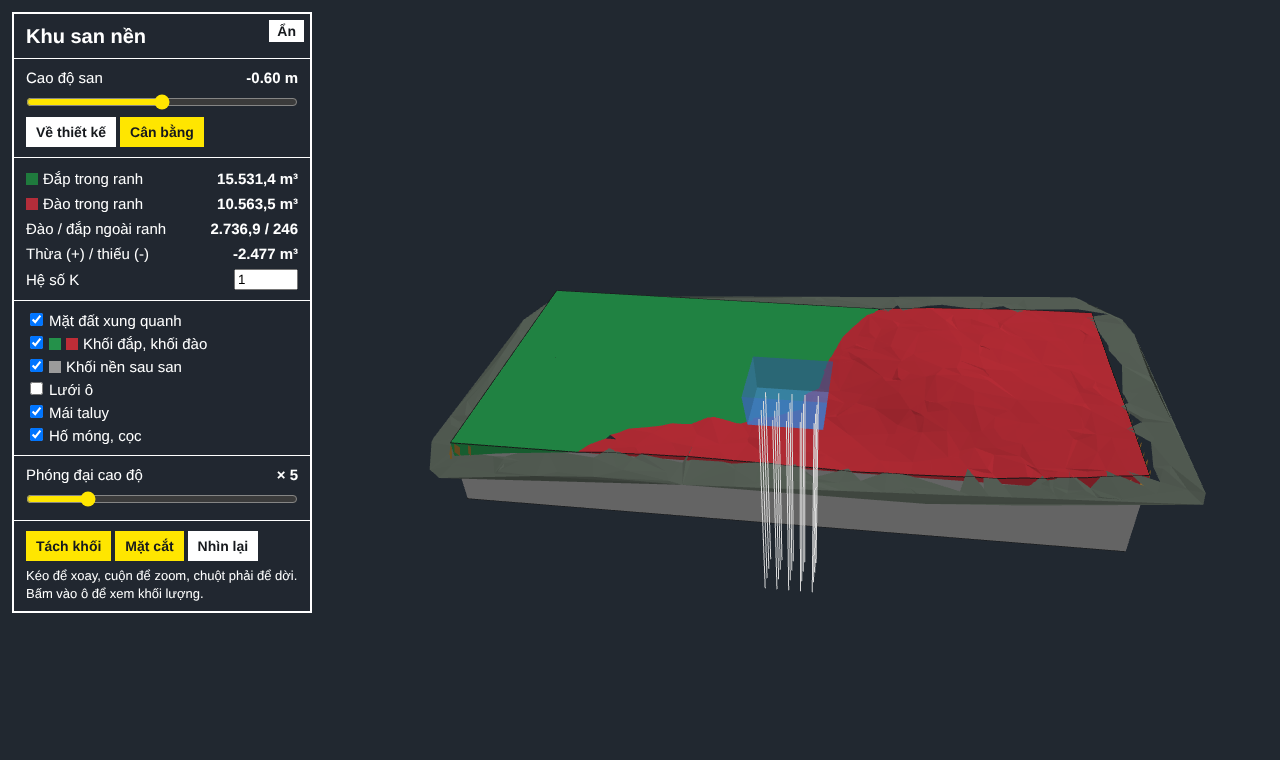
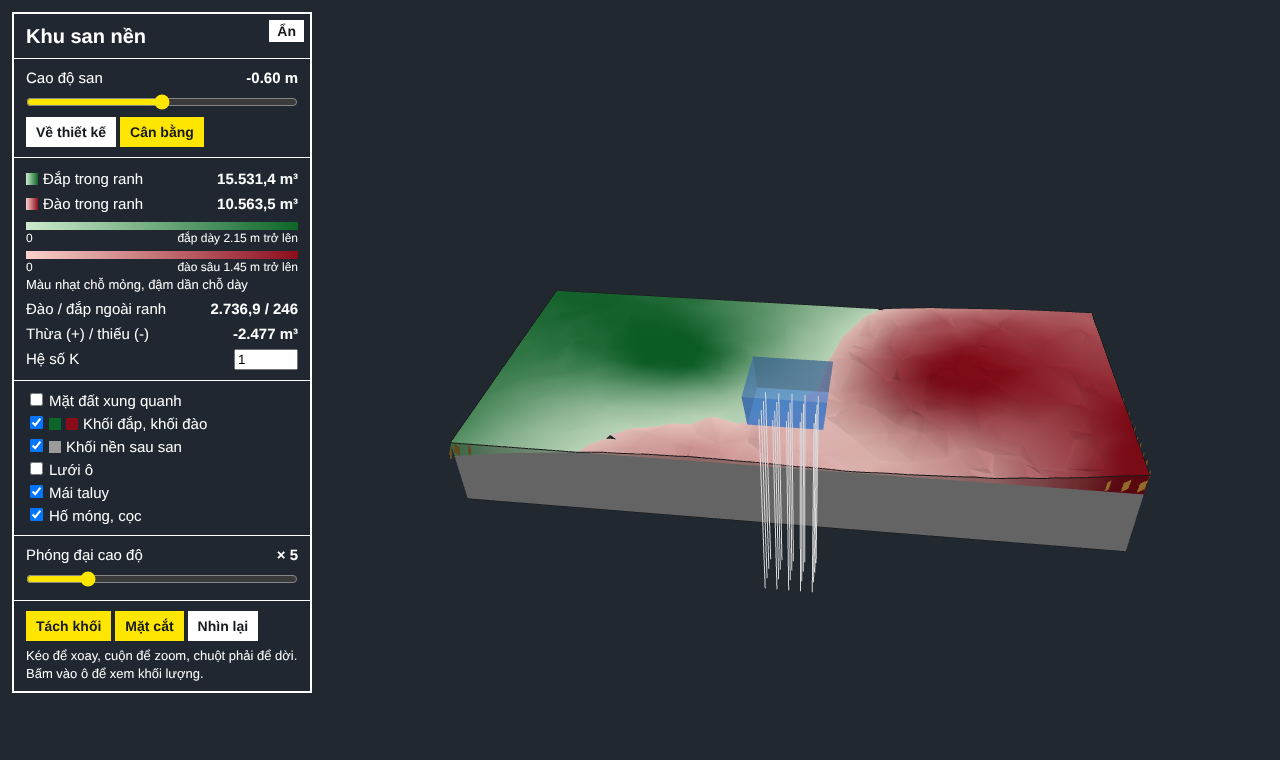
3D: màu nhạt chỗ mỏng, đậm dần chỗ dày (trang xem và DWG); mặt bằng có mạng TIN tự nhiên, TIN thiết kế và điểm thiết kế
Claude-Session: https://claude.ai/code/session_017Fkr3RXTCvjfnj7xxpYZdb

Changed region(s): [[0.3125, 0.3632, 0.9375, 0.6658], [0.0, 0.2118, 0.25, 0.9079]]

diff --git a/docs/mau3d.html b/docs/mau3d.html
@@ -20,6 +20,7 @@ button.off{background:#fff}#hide{position:absolute;right:6px;top:6px;margin:0;pa
 #hint{position:fixed;left:50%;bottom:12px;transform:translateX(-50%);background:#ffe600;color:#16191d;padding:6px 12px;font-weight:700;display:none}
 #open{position:fixed;left:12px;top:12px;display:none;margin:0}
 .leg{display:inline-block;width:12px;height:12px;margin-right:5px;vertical-align:-1px}
+.bar{height:8px;margin-top:4px}.bt{display:flex;justify-content:space-between;font-size:12px}
 #labs{position:fixed;bottom:16px;transform:translateX(-50%);display:none;font-weight:700;white-space:nowrap;pointer-events:none;border:2px solid #fff;background:#212830ee;padding:6px 12px}#labs span{margin:0 8px}
 @media (max-width:760px){#labs{white-space:normal;width:calc(100% - 24px);text-align:center}#labs span{display:inline-block}}
 @media (max-width:760px){#panel{width:calc(100% - 24px);max-height:48%}#sec{left:12px;height:190px}#info{top:auto;bottom:12px;right:12px}}
@@ -31,13 +32,15 @@ button.off{background:#fff}#hide{position:absolute;right:6px;top:6px;margin:0;pa
 <input id="off" type="range" min="-3" max="3" step="0.01" value="0">
 <button id="reset" class="off">Về thiết kế</button><button id="bal">Cân bằng</button></div>
 <div class="row"><table>
-<tr><td><span class="leg" style="background:#1f7a3d"></span>Đắp trong ranh</td><td id="vf"></td></tr>
-<tr><td><span class="leg" style="background:#b32d3a"></span>Đào trong ranh</td><td id="vc"></td></tr>
+<tr><td><span class="leg" style="background:linear-gradient(90deg,#cceacc,#0d6629)"></span>Đắp trong ranh</td><td id="vf"></td></tr>
+<tr><td><span class="leg" style="background:linear-gradient(90deg,#fad1cc,#8c0d1a)"></span>Đào trong ranh</td><td id="vc"></td></tr>
+<tr><td colspan="2" style="font-weight:400;font-size:13px;text-align:left"><div class="bar" style="background:linear-gradient(90deg,#cceacc,#0d6629)"></div><div class="bt"><span>0</span><span id="hf"></span></div>
+<div class="bar" style="background:linear-gradient(90deg,#fad1cc,#8c0d1a)"></div><div class="bt"><span>0</span><span id="hc"></span></div>Màu nhạt chỗ mỏng, đậm dần chỗ dày</td></tr>
 <tr><td id="exl">Taluy, hố móng, cọc</td><td id="ex"></td></tr>
 <tr><td>Thừa (+) / thiếu (-)</td><td id="sur"></td></tr>
 <tr><td>Hệ số K</td><td><input id="k" type="number" step="0.01" style="width:64px"></td></tr></table></div>
-<div class="row"><label class="t"><input type="checkbox" id="lg" checked>Mặt đất xung quanh</label>
-<label class="t"><input type="checkbox" id="ld" checked><span class="leg" style="background:#24914a"></span><span class="leg" style="background:#be2d37"></span>Khối đắp, khối đào</label>
+<div class="row"><label class="t"><input type="checkbox" id="lg">Mặt đất xung quanh</label>
+<label class="t"><input type="checkbox" id="ld" checked><span class="leg" style="background:#0d6629"></span><span class="leg" style="background:#8c0d1a"></span>Khối đắp, khối đào</label>
 <label class="t"><input type="checkbox" id="ln" checked><span class="leg" style="background:#9b9b9b"></span>Khối nền sau san</label>
 <label class="t"><input type="checkbox" id="lc">Lưới ô</label>
 <label class="t" id="lt0"><input type="checkbox" id="lt" checked>Mái taluy</label>
@@ -90,25 +93,32 @@ for(let j=0;j<3;j++){const p=i*3+o[j],q=i*3+o[(j+1)%3],kp=x[p*2].toFixed(3)+","+
 for(const v of em.values())if(v)bE.push(v)}
 let zgmin=1e9,zdmin=1e9;for(let i=0;i<N*3;i++){zgmin=Math.min(zgmin,site.zg[i]);zdmin=Math.min(zdmin,site.zd[i])}
 const ZB=Math.floor(Math.min(zgmin,zdmin-3)-2);
-const CF=[.14,.57,.29],CC=[.75,.18,.22],CN=[.62,.62,.62];
+const CN=[.62,.62,.62];
+// màu theo bề dày: mỏng thì nhạt, dày thì đậm; thang lấy theo 95% bề dày lớn nhất của từng loại
+const LF=[.80,.92,.80],DF=[.05,.40,.16],LC=[.98,.82,.80],DC=[.55,.05,.10];
+const HS=(()=>{const f=[],c=[];for(let i=0;i<N*3;i++){const h=site.zd[i]-site.zg[i];if(h>1e-6)f.push(h);else if(h<-1e-6)c.push(-h)}
+const q=a=>{if(!a.length)return 1;a.sort((x,y)=>x-y);return Math.max(a[Math.floor(a.length*.95)],.05)};return[q(f),q(c)]})();
+const mix=(a,b,t)=>[a[0]+(b[0]-a[0])*t,a[1]+(b[1]-a[1])*t,a[2]+(b[2]-a[2])*t];
+const colF=h=>mix(LF,DF,Math.min(Math.max(h,0)/HS[0],1)),colC=h=>mix(LC,DC,Math.min(Math.max(-h,0)/HS[1],1));
+const CF=colF(HS[0]),CC=colC(-HS[1]);
 let xpl=0;const SB={pos:[],col:[]},LB=[];
 function liftZ(){return xpl?span*.16/Ez:0}
 function buildSolid(d){const P2=[],C2=[],Ls=[],lf=liftZ();
 const put=(p,c)=>{P2.push(p[0],p[1],p[2]);C2.push(c[0],c[1],c[2])};
-const fan=(poly,zf,c,rev)=>{for(let k=1;k<poly.length-1;k++){const a=poly[0],b=poly[k],e=poly[k+1];if(rev){put([a[0],a[1],zf(a)],c);put([e[0],e[1],zf(e)],c);put([b[0],b[1],zf(b)],c)}else{put([a[0],a[1],zf(a)],c);put([b[0],b[1],zf(b)],c);put([e[0],e[1],zf(e)],c)}}};
-const quad=(a,b,za0,zb0,za1,zb1,c)=>{put([a[0],a[1],za0],c);put([b[0],b[1],zb0],c);put([b[0],b[1],zb1],c);put([a[0],a[1],za0],c);put([b[0],b[1],zb1],c);put([a[0],a[1],za1],c)};
+const fan=(poly,zf,c,rev)=>{const C=typeof c=="function"?c:()=>c;for(let k=1;k<poly.length-1;k++){const a=poly[0],b=poly[k],e=poly[k+1];if(rev){put([a[0],a[1],zf(a)],C(a));put([e[0],e[1],zf(e)],C(e));put([b[0],b[1],zf(b)],C(b))}else{put([a[0],a[1],zf(a)],C(a));put([b[0],b[1],zf(b)],C(b));put([e[0],e[1],zf(e)],C(e))}}};
+const quad=(a,b,za0,zb0,za1,zb1,c,cb)=>{cb=cb||c;put([a[0],a[1],za0],c);put([b[0],b[1],zb0],cb);put([b[0],b[1],zb1],cb);put([a[0],a[1],za0],c);put([b[0],b[1],zb1],cb);put([a[0],a[1],za1],c)};
 const V=i=>{const g=site.zg[i],z=site.zd[i]+d;return[site.xy[i*2],site.xy[i*2+1],g,z,z-g]};
 const cut=(a,b)=>{const t=a[4]/(a[4]-b[4]);return a.map((v,k)=>k==4?0:v+t*(b[k]-v))};
 const showB=$("ld").checked,showN=$("ln").checked;
 for(let i=0;i<N;i++){const v=[0,1,2].map(j=>V(i*3+ord[i*3+j]));const pos=[],neg=[];
 for(let j=0;j<3;j++){const a=v[j],b=v[(j+1)%3];(a[4]>=0?pos:neg).push(a);if(a[4]*b[4]<0){const q=cut(a,b);pos.push(q);neg.push(q)}}
-if(showB){if(pos.length>2&&pos.some(q=>q[4]>1e-6)){fan(pos,q=>q[3]+lf,CF,0);fan(pos,q=>q[2]+lf,CF,1)}
-if(neg.length>2&&neg.some(q=>q[4]<-1e-6)){fan(neg,q=>q[2]+lf,CC,0);fan(neg,q=>q[3]+lf,CC,1)}}
+if(showB){if(pos.length>2&&pos.some(q=>q[4]>1e-6)){fan(pos,q=>q[3]+lf,q=>colF(q[4]),0);fan(pos,q=>q[2]+lf,q=>colF(q[4]),1)}
+if(neg.length>2&&neg.some(q=>q[4]<-1e-6)){fan(neg,q=>q[2]+lf,q=>colC(q[4]),0);fan(neg,q=>q[3]+lf,q=>colC(q[4]),1)}}
 if(showN&&(xpl||!showB))for(const p of[pos,neg])if(p.length>2)fan(p,q=>Math.min(q[2],q[3]),CN,0)}
 for(const[pi,qi]of bE){let a=V(pi),b=V(qi);const segs=a[4]*b[4]<0?[[a,cut(a,b)],[cut(a,b),b]]:[[a,b]];
 for(const[p,q]of segs){const s=(p[4]+q[4])>=0,mp=Math.min(p[2],p[3]),mq=Math.min(q[2],q[3]),Mp=Math.max(p[2],p[3]),Mq=Math.max(q[2],q[3]);
 if(showN){quad(p,q,ZB,ZB,mp,mq,CN);Ls.push(p[0],p[1],ZB,q[0],q[1],ZB)}
-if(showB){quad(p,q,mp+lf,mq+lf,Mp+lf,Mq+lf,s?CF:CC);Ls.push(p[0],p[1],Mp+lf,q[0],q[1],Mq+lf)}else if(showN)Ls.push(p[0],p[1],mp,q[0],q[1],mq);
+if(showB){quad(p,q,mp+lf,mq+lf,Mp+lf,Mq+lf,s?colF(p[4]):colC(p[4]),s?colF(q[4]):colC(q[4]));Ls.push(p[0],p[1],Mp+lf,q[0],q[1],Mq+lf)}else if(showN)Ls.push(p[0],p[1],mp,q[0],q[1],mq);
 if(xpl&&showN&&showB)Ls.push(p[0],p[1],mp,q[0],q[1],mq)}}
 return[new Float32Array(P2),new Float32Array(C2),new Float32Array(Ls)]}
 let sol=null,sedge=null;
@@ -155,7 +165,7 @@ const dr=(m,L,A)=>{gl.uniform1f(uL,L);gl.uniform1f(uA,A);gl.bindVertexArray(m.a)
 gl.enable(gl.CULL_FACE);if(sol)dr(sol,1,1);gl.disable(gl.CULL_FACE);if(sedge)dr(sedge,0,1);if($("lc").checked)dr(gl1,0,1);if(tal&&$("lt").checked&&off===0&&!xpl)dr(tal,1,1);if(secl)dr(secl,0,1);
 if($("lg").checked&&!xpl){if(!gnd)gnd=groundOut();dr(gnd,1,1)}labels()
 if($("lp").checked){gl.disable(gl.DEPTH_TEST);gl.enable(gl.BLEND);gl.blendFunc(gl.SRC_ALPHA,gl.ONE_MINUS_SRC_ALPHA);pits.forEach(m=>dr(m,1,.65));if(plm)dr(plm,0,1);gl.disable(gl.BLEND);gl.enable(gl.DEPTH_TEST)}}
-function groundOut(){const v=D.ground.v,t=[];for(let i=0;i<D.ground.t.length;i+=3){const a=D.ground.t.slice(i,i+3);let x=0,y=0;for(const k of a){x+=v[k*3]/3;y+=v[k*3+1]/3}if(!find(x,y))t.push(...a)}return mesh(...expand(v,t,[.36,.40,.36]),gl.TRIANGLES)}
+function groundOut(){const v=D.ground.v,t=[];for(let i=0;i<D.ground.t.length;i+=3){const a=D.ground.t.slice(i,i+3);let x=0,y=0,inn=0;for(const k of a){x+=v[k*3]/3;y+=v[k*3+1]/3;if(find(v[k*3],v[k*3+1]))inn=1}if(!inn&&!find(x,y))t.push(...a)}return mesh(...expand(v,t,[.36,.40,.36]),gl.TRIANGLES)}
 function labels(){const L=$("labs");if(!xpl){L.style.display="none";return}const[f,cc]=stats(off);L.style.display="block";L.style.left=(padL()+(cv.clientWidth-padL())/2)+"px";
 L.innerHTML=`<span style="color:#3cc46a">KHỐI ĐẮP ${fmt(f)} m³</span><span style="color:#ff5c66">KHỐI ĐÀO ${fmt(cc)} m³</span><span style="color:#c8c8c8">Dưới: NỀN SAU SAN</span>`}
 // -- tương tác
@@ -163,7 +173,7 @@ let drag=null,moved=0,secMode=0,secA=null;const ptrs=new Map();let pinch=0;
 function ray(px,py){const c=vp(),r=cv.getBoundingClientRect(),nx=(px-r.left-padL())/(r.width-padL())*2-1,ny=1-(py-r.top)/r.height*2,d=nz([c.x[0]*nx*c.asp/c.f+c.y[0]*ny/c.f-c.z[0],c.x[1]*nx*c.asp/c.f+c.y[1]*ny/c.f-c.z[1],c.x[2]*nx*c.asp/c.f+c.y[2]*ny/c.f-c.z[2]]);return[c.e,d]}
 function hit(px,py){const[o,d]=ray(px,py);let best=null,bt=1e12;const lz=liftZ(),T=k=>(Math.max(P[k],site.zg[k/3|0])+lz-Z0)*Ez;for(let i=0;i<N;i++){const a=[P[i*9],P[i*9+1],T(i*9+2)],b=[P[i*9+3],P[i*9+4],T(i*9+5)],c=[P[i*9+6],P[i*9+7],T(i*9+8)],e1=sub(b,a),e2=sub(c,a),p=cr(d,e2),det=dt(e1,p);if(Math.abs(det)<1e-12)continue;const s=sub(o,a),u=dt(s,p)/det;if(u<0||u>1)continue;const q=cr(s,e1),v=dt(d,q)/det;if(v<0||u+v>1)continue;const t=dt(e2,q)/det;if(t>0&&t<bt){bt=t;best=i}}return best==null?null:{i:best,x:o[0]+d[0]*bt,y:o[1]+d[1]*bt}}
 function showCell(i){const c=D.cells[site.own[i]];const el=$("info");el.style.display="block";el.innerHTML=`<b>${c.k} ô ${c.n}</b><table><tr><td>Diện tích</td><td>${c.a} m²</td></tr><tr><td>V đắp lưới ô</td><td>${c.gf} m³</td></tr><tr><td>V đào lưới ô</td><td>${c.gc} m³</td></tr><tr><td>V đắp TIN</td><td>${c.vf} m³</td></tr><tr><td>V đào TIN</td><td>${c.vc} m³</td></tr></table>`}
-SN.showCell=showCell;SN.hit=hit;
+SN.showCell=showCell;SN.hit=hit;SN.view=o=>{if(o.c)cam.c=o.c;if(o.r)cam.r=cam.r*o.r;if(o.th!=null)cam.th=o.th;if(o.ph!=null)cam.ph=o.ph;draw();return JSON.parse(JSON.stringify(cam))};
 cv.addEventListener("contextmenu",e=>e.preventDefault());
 cv.addEventListener("pointerdown",e=>{cv.setPointerCapture(e.pointerId);ptrs.set(e.pointerId,[e.clientX,e.clientY]);drag={x:e.clientX,y:e.clientY,b:e.button};moved=0;pinch=0});
 cv.addEventListener("pointermove",e=>{if(!ptrs.has(e.pointerId))return;ptrs.set(e.pointerId,[e.clientX,e.clientY]);if(ptrs.size==2){const[a,b]=[...ptrs.values()],d=Math.hypot(a[0]-b[0],a[1]-b[1]);if(pinch)cam.r=Math.max(span*.04,cam.r*pinch/d);pinch=d;moved=9;draw();return}if(!drag)return;const dx=e.clientX-drag.x,dy=e.clientY-drag.y;drag.x=e.clientX;drag.y=e.clientY;moved+=Math.abs(dx)+Math.abs(dy);
@@ -190,6 +200,7 @@ g.fillStyle="#fff";g.fillRect(0,0,W,H);g.strokeStyle="#c9ced6";g.fillStyle="#161
 for(let i=0;i<n;i++){const a1=G[i],b1=G[i+1],c1=Dz[i],d1=Dz[i+1];if(a1==null||b1==null||c1==null||d1==null)continue;const up=(c1+d1)>(a1+b1);g.fillStyle=up?"#1f7a3d55":"#b32d3a55";g.beginPath();g.moveTo(px(i),py(a1));g.lineTo(px(i+1),py(b1));g.lineTo(px(i+1),py(d1));g.lineTo(px(i),py(c1));g.fill()}
 const ln=(A,col)=>{g.strokeStyle=col;g.lineWidth=2;g.beginPath();let st=0;A.forEach((v,i)=>{if(v==null){st=0;return}st?g.lineTo(px(i),py(v)):g.moveTo(px(i),py(v));st=1});g.stroke()};ln(G,"#8a5a2b");ln(Dz,"#16191d");g.fillStyle="#16191d";g.font="bold 12px Arial";g.fillText("Đen: thiết kế. Nâu: mặt đất.",ml+6,mt+12)}
 SN.section=section;
+$("hf").textContent="đắp dày "+HS[0].toFixed(2)+" m trở lên";$("hc").textContent="đào sâu "+HS[1].toFixed(2)+" m trở lên";
 D.levelBase=parseFloat(D.design[0])||0;if(!D.flat)$("lvlname").textContent="Dịch mặt thiết kế";
 if(innerWidth<760){$("panel").style.display="none";$("open").style.display="block"}
 cam=JSON.parse(JSON.stringify(home));

diff --git a/sannen3d_view.html b/sannen3d_view.html
@@ -20,6 +20,7 @@ button.off{background:#fff}#hide{position:absolute;right:6px;top:6px;margin:0;pa
 #hint{position:fixed;left:50%;bottom:12px;transform:translateX(-50%);background:#ffe600;color:#16191d;padding:6px 12px;font-weight:700;display:none}
 #open{position:fixed;left:12px;top:12px;display:none;margin:0}
 .leg{display:inline-block;width:12px;height:12px;margin-right:5px;vertical-align:-1px}
+.bar{height:8px;margin-top:4px}.bt{display:flex;justify-content:space-between;font-size:12px}
 #labs{position:fixed;bottom:16px;transform:translateX(-50%);display:none;font-weight:700;white-space:nowrap;pointer-events:none;border:2px solid #fff;background:#212830ee;padding:6px 12px}#labs span{margin:0 8px}
 @media (max-width:760px){#labs{white-space:normal;width:calc(100% - 24px);text-align:center}#labs span{display:inline-block}}
 @media (max-width:760px){#panel{width:calc(100% - 24px);max-height:48%}#sec{left:12px;height:190px}#info{top:auto;bottom:12px;right:12px}}
@@ -31,13 +32,15 @@ button.off{background:#fff}#hide{position:absolute;right:6px;top:6px;margin:0;pa
 <input id="off" type="range" min="-3" max="3" step="0.01" value="0">
 <button id="reset" class="off">Về thiết kế</button><button id="bal">Cân bằng</button></div>
 <div class="row"><table>
-<tr><td><span class="leg" style="background:#1f7a3d"></span>Đắp trong ranh</td><td id="vf"></td></tr>
-<tr><td><span class="leg" style="background:#b32d3a"></span>Đào trong ranh</td><td id="vc"></td></tr>
+<tr><td><span class="leg" style="background:linear-gradient(90deg,#cceacc,#0d6629)"></span>Đắp trong ranh</td><td id="vf"></td></tr>
+<tr><td><span class="leg" style="background:linear-gradient(90deg,#fad1cc,#8c0d1a)"></span>Đào trong ranh</td><td id="vc"></td></tr>
+<tr><td colspan="2" style="font-weight:400;font-size:13px;text-align:left"><div class="bar" style="background:linear-gradient(90deg,#cceacc,#0d6629)"></div><div class="bt"><span>0</span><span id="hf"></span></div>
+<div class="bar" style="background:linear-gradient(90deg,#fad1cc,#8c0d1a)"></div><div class="bt"><span>0</span><span id="hc"></span></div>Màu nhạt chỗ mỏng, đậm dần chỗ dày</td></tr>
 <tr><td id="exl">Taluy, hố móng, cọc</td><td id="ex"></td></tr>
 <tr><td>Thừa (+) / thiếu (-)</td><td id="sur"></td></tr>
 <tr><td>Hệ số K</td><td><input id="k" type="number" step="0.01" style="width:64px"></td></tr></table></div>
 <div class="row"><label class="t"><input type="checkbox" id="lg">Mặt đất xung quanh</label>
-<label class="t"><input type="checkbox" id="ld" checked><span class="leg" style="background:#24914a"></span><span class="leg" style="background:#be2d37"></span>Khối đắp, khối đào</label>
+<label class="t"><input type="checkbox" id="ld" checked><span class="leg" style="background:#0d6629"></span><span class="leg" style="background:#8c0d1a"></span>Khối đắp, khối đào</label>
 <label class="t"><input type="checkbox" id="ln" checked><span class="leg" style="background:#9b9b9b"></span>Khối nền sau san</label>
 <label class="t"><input type="checkbox" id="lc">Lưới ô</label>
 <label class="t" id="lt0"><input type="checkbox" id="lt" checked>Mái taluy</label>
@@ -90,25 +93,32 @@ for(let j=0;j<3;j++){const p=i*3+o[j],q=i*3+o[(j+1)%3],kp=x[p*2].toFixed(3)+","+
 for(const v of em.values())if(v)bE.push(v)}
 let zgmin=1e9,zdmin=1e9;for(let i=0;i<N*3;i++){zgmin=Math.min(zgmin,site.zg[i]);zdmin=Math.min(zdmin,site.zd[i])}
 const ZB=Math.floor(Math.min(zgmin,zdmin-3)-2);
-const CF=[.14,.57,.29],CC=[.75,.18,.22],CN=[.62,.62,.62];
+const CN=[.62,.62,.62];
+// màu theo bề dày: mỏng thì nhạt, dày thì đậm; thang lấy theo 95% bề dày lớn nhất của từng loại
+const LF=[.80,.92,.80],DF=[.05,.40,.16],LC=[.98,.82,.80],DC=[.55,.05,.10];
+const HS=(()=>{const f=[],c=[];for(let i=0;i<N*3;i++){const h=site.zd[i]-site.zg[i];if(h>1e-6)f.push(h);else if(h<-1e-6)c.push(-h)}
+const q=a=>{if(!a.length)return 1;a.sort((x,y)=>x-y);return Math.max(a[Math.floor(a.length*.95)],.05)};return[q(f),q(c)]})();
+const mix=(a,b,t)=>[a[0]+(b[0]-a[0])*t,a[1]+(b[1]-a[1])*t,a[2]+(b[2]-a[2])*t];
+const colF=h=>mix(LF,DF,Math.min(Math.max(h,0)/HS[0],1)),colC=h=>mix(LC,DC,Math.min(Math.max(-h,0)/HS[1],1));
+const CF=colF(HS[0]),CC=colC(-HS[1]);
 let xpl=0;const SB={pos:[],col:[]},LB=[];
 function liftZ(){return xpl?span*.16/Ez:0}
 function buildSolid(d){const P2=[],C2=[],Ls=[],lf=liftZ();
 const put=(p,c)=>{P2.push(p[0],p[1],p[2]);C2.push(c[0],c[1],c[2])};
-const fan=(poly,zf,c,rev)=>{for(let k=1;k<poly.length-1;k++){const a=poly[0],b=poly[k],e=poly[k+1];if(rev){put([a[0],a[1],zf(a)],c);put([e[0],e[1],zf(e)],c);put([b[0],b[1],zf(b)],c)}else{put([a[0],a[1],zf(a)],c);put([b[0],b[1],zf(b)],c);put([e[0],e[1],zf(e)],c)}}};
-const quad=(a,b,za0,zb0,za1,zb1,c)=>{put([a[0],a[1],za0],c);put([b[0],b[1],zb0],c);put([b[0],b[1],zb1],c);put([a[0],a[1],za0],c);put([b[0],b[1],zb1],c);put([a[0],a[1],za1],c)};
+const fan=(poly,zf,c,rev)=>{const C=typeof c=="function"?c:()=>c;for(let k=1;k<poly.length-1;k++){const a=poly[0],b=poly[k],e=poly[k+1];if(rev){put([a[0],a[1],zf(a)],C(a));put([e[0],e[1],zf(e)],C(e));put([b[0],b[1],zf(b)],C(b))}else{put([a[0],a[1],zf(a)],C(a));put([b[0],b[1],zf(b)],C(b));put([e[0],e[1],zf(e)],C(e))}}};
+const quad=(a,b,za0,zb0,za1,zb1,c,cb)=>{cb=cb||c;put([a[0],a[1],za0],c);put([b[0],b[1],zb0],cb);put([b[0],b[1],zb1],cb);put([a[0],a[1],za0],c);put([b[0],b[1],zb1],cb);put([a[0],a[1],za1],c)};
 const V=i=>{const g=site.zg[i],z=site.zd[i]+d;return[site.xy[i*2],site.xy[i*2+1],g,z,z-g]};
 const cut=(a,b)=>{const t=a[4]/(a[4]-b[4]);return a.map((v,k)=>k==4?0:v+t*(b[k]-v))};
 const showB=$("ld").checked,showN=$("ln").checked;
 for(let i=0;i<N;i++){const v=[0,1,2].map(j=>V(i*3+ord[i*3+j]));const pos=[],neg=[];
 for(let j=0;j<3;j++){const a=v[j],b=v[(j+1)%3];(a[4]>=0?pos:neg).push(a);if(a[4]*b[4]<0){const q=cut(a,b);pos.push(q);neg.push(q)}}
-if(showB){if(pos.length>2&&pos.some(q=>q[4]>1e-6)){fan(pos,q=>q[3]+lf,CF,0);fan(pos,q=>q[2]+lf,CF,1)}
-if(neg.length>2&&neg.some(q=>q[4]<-1e-6)){fan(neg,q=>q[2]+lf,CC,0);fan(neg,q=>q[3]+lf,CC,1)}}
+if(showB){if(pos.length>2&&pos.some(q=>q[4]>1e-6)){fan(pos,q=>q[3]+lf,q=>colF(q[4]),0);fan(pos,q=>q[2]+lf,q=>colF(q[4]),1)}
+if(neg.length>2&&neg.some(q=>q[4]<-1e-6)){fan(neg,q=>q[2]+lf,q=>colC(q[4]),0);fan(neg,q=>q[3]+lf,q=>colC(q[4]),1)}}
 if(showN&&(xpl||!showB))for(const p of[pos,neg])if(p.length>2)fan(p,q=>Math.min(q[2],q[3]),CN,0)}
 for(const[pi,qi]of bE){let a=V(pi),b=V(qi);const segs=a[4]*b[4]<0?[[a,cut(a,b)],[cut(a,b),b]]:[[a,b]];
 for(const[p,q]of segs){const s=(p[4]+q[4])>=0,mp=Math.min(p[2],p[3]),mq=Math.min(q[2],q[3]),Mp=Math.max(p[2],p[3]),Mq=Math.max(q[2],q[3]);
 if(showN){quad(p,q,ZB,ZB,mp,mq,CN);Ls.push(p[0],p[1],ZB,q[0],q[1],ZB)}
-if(showB){quad(p,q,mp+lf,mq+lf,Mp+lf,Mq+lf,s?CF:CC);Ls.push(p[0],p[1],Mp+lf,q[0],q[1],Mq+lf)}else if(showN)Ls.push(p[0],p[1],mp,q[0],q[1],mq);
+if(showB){quad(p,q,mp+lf,mq+lf,Mp+lf,Mq+lf,s?colF(p[4]):colC(p[4]),s?colF(q[4]):colC(q[4]));Ls.push(p[0],p[1],Mp+lf,q[0],q[1],Mq+lf)}else if(showN)Ls.push(p[0],p[1],mp,q[0],q[1],mq);
 if(xpl&&showN&&showB)Ls.push(p[0],p[1],mp,q[0],q[1],mq)}}
 return[new Float32Array(P2),new Float32Array(C2),new Float32Array(Ls)]}
 let sol=null,sedge=null;
@@ -163,7 +173,7 @@ let drag=null,moved=0,secMode=0,secA=null;const ptrs=new Map();let pinch=0;
 function ray(px,py){const c=vp(),r=cv.getBoundingClientRect(),nx=(px-r.left-padL())/(r.width-padL())*2-1,ny=1-(py-r.top)/r.height*2,d=nz([c.x[0]*nx*c.asp/c.f+c.y[0]*ny/c.f-c.z[0],c.x[1]*nx*c.asp/c.f+c.y[1]*ny/c.f-c.z[1],c.x[2]*nx*c.asp/c.f+c.y[2]*ny/c.f-c.z[2]]);return[c.e,d]}
 function hit(px,py){const[o,d]=ray(px,py);let best=null,bt=1e12;const lz=liftZ(),T=k=>(Math.max(P[k],site.zg[k/3|0])+lz-Z0)*Ez;for(let i=0;i<N;i++){const a=[P[i*9],P[i*9+1],T(i*9+2)],b=[P[i*9+3],P[i*9+4],T(i*9+5)],c=[P[i*9+6],P[i*9+7],T(i*9+8)],e1=sub(b,a),e2=sub(c,a),p=cr(d,e2),det=dt(e1,p);if(Math.abs(det)<1e-12)continue;const s=sub(o,a),u=dt(s,p)/det;if(u<0||u>1)continue;const q=cr(s,e1),v=dt(d,q)/det;if(v<0||u+v>1)continue;const t=dt(e2,q)/det;if(t>0&&t<bt){bt=t;best=i}}return best==null?null:{i:best,x:o[0]+d[0]*bt,y:o[1]+d[1]*bt}}
 function showCell(i){const c=D.cells[site.own[i]];const el=$("info");el.style.display="block";el.innerHTML=`<b>${c.k} ô ${c.n}</b><table><tr><td>Diện tích</td><td>${c.a} m²</td></tr><tr><td>V đắp lưới ô</td><td>${c.gf} m³</td></tr><tr><td>V đào lưới ô</td><td>${c.gc} m³</td></tr><tr><td>V đắp TIN</td><td>${c.vf} m³</td></tr><tr><td>V đào TIN</td><td>${c.vc} m³</td></tr></table>`}
-SN.showCell=showCell;SN.hit=hit;
+SN.showCell=showCell;SN.hit=hit;SN.view=o=>{if(o.c)cam.c=o.c;if(o.r)cam.r=cam.r*o.r;if(o.th!=null)cam.th=o.th;if(o.ph!=null)cam.ph=o.ph;draw();return JSON.parse(JSON.stringify(cam))};
 cv.addEventListener("contextmenu",e=>e.preventDefault());
 cv.addEventListener("pointerdown",e=>{cv.setPointerCapture(e.pointerId);ptrs.set(e.pointerId,[e.clientX,e.clientY]);drag={x:e.clientX,y:e.clientY,b:e.button};moved=0;pinch=0});
 cv.addEventListener("pointermove",e=>{if(!ptrs.has(e.pointerId))return;ptrs.set(e.pointerId,[e.clientX,e.clientY]);if(ptrs.size==2){const[a,b]=[...ptrs.values()],d=Math.hypot(a[0]-b[0],a[1]-b[1]);if(pinch)cam.r=Math.max(span*.04,cam.r*pinch/d);pinch=d;moved=9;draw();return}if(!drag)return;const dx=e.clientX-drag.x,dy=e.clientY-drag.y;drag.x=e.clientX;drag.y=e.clientY;moved+=Math.abs(dx)+Math.abs(dy);
@@ -190,6 +200,7 @@ g.fillStyle="#fff";g.fillRect(0,0,W,H);g.strokeStyle="#c9ced6";g.fillStyle="#161
 for(let i=0;i<n;i++){const a1=G[i],b1=G[i+1],c1=Dz[i],d1=Dz[i+1];if(a1==null||b1==null||c1==null||d1==null)continue;const up=(c1+d1)>(a1+b1);g.fillStyle=up?"#1f7a3d55":"#b32d3a55";g.beginPath();g.moveTo(px(i),py(a1));g.lineTo(px(i+1),py(b1));g.lineTo(px(i+1),py(d1));g.lineTo(px(i),py(c1));g.fill()}
 const ln=(A,col)=>{g.strokeStyle=col;g.lineWidth=2;g.beginPath();let st=0;A.forEach((v,i)=>{if(v==null){st=0;return}st?g.lineTo(px(i),py(v)):g.moveTo(px(i),py(v));st=1});g.stroke()};ln(G,"#8a5a2b");ln(Dz,"#16191d");g.fillStyle="#16191d";g.font="bold 12px Arial";g.fillText("Đen: thiết kế. Nâu: mặt đất.",ml+6,mt+12)}
 SN.section=section;
+$("hf").textContent="đắp dày "+HS[0].toFixed(2)+" m trở lên";$("hc").textContent="đào sâu "+HS[1].toFixed(2)+" m trở lên";
 D.levelBase=parseFloat(D.design[0])||0;if(!D.flat)$("lvlname").textContent="Dịch mặt thiết kế";
 if(innerWidth<760){$("panel").style.display="none";$("open").style.display="block"}
 cam=JSON.parse(JSON.stringify(home));

diff --git a/docs/index.html b/docs/index.html
@@ -9,7 +9,7 @@
 <meta property="og:title" content="SanNenPro: tính khối lượng san nền từ DWG/DXF">
 <meta property="og:description" content="Đọc điểm cao độ và ranh giới trong bản vẽ, tính đào đắp theo lưới ô và TIN, xuất Excel, DWG, PDF.">
 <meta property="og:url" content="https://huyhoang31897-stack.github.io/SanNenPro/">
-<meta property="og:image" content="https://huyhoang31897-stack.github.io/SanNenPro/preview.png?v=3">
+<meta property="og:image" content="https://huyhoang31897-stack.github.io/SanNenPro/preview.png?v=4">
 <meta property="og:image:width" content="1280">
 <meta property="og:image:height" content="640">
 <meta name="twitter:card" content="summary_large_image">

diff --git a/sannen3d.py b/sannen3d.py
@@ -419,12 +419,24 @@ def model_3d(zones, tin_tris, T, X, cfg, origin):
                 if tris:
                     p, q = body_mesh(tris, pinch=True)
                     if q:
-                        bodies.append((lay, zi, z["name"], sub(p), q, None))
+                        tm = float(np.mean([abs(a[2] - a[3]) for t in tris for a in t]))
+                        bodies.append((lay, zi, z["name"], sub(p), q, tm))
             if cfg["strip"] > 0:
                 tris = [[(x, y, gg + cfg["strip"], gg) for (x, y), gg in zip(pp, g3)] for pp, g3 in zip(xy, g)]
                 p, q = body_mesh(tris, pinch=True)
                 if q:
                     bodies.append(("SN3D_BOC", zi, z["name"], sub(p), q, None))
+    # màu theo bề dày: chia 5 cấp, nhạt chỗ mỏng, đậm chỗ dày; thang = 95% bề dày lớn nhất từng loại
+    scale, bandcol = {}, {}
+    for lay in ("SN3D_DAP", "SN3D_DAO"):
+        t = sorted(b[5] for b in bodies if b[0] == lay)
+        scale[lay] = max(t[int(len(t) * .95)] if t else 1.0, 0.05)
+    for i, b in enumerate(bodies):
+        if b[0] in scale:
+            band = min(int(b[5] / scale[b[0]] * 5), 4)
+            key = f"{b[1]}b{band}"
+            bandcol[(b[0], key)] = band_rgb(b[0], band)
+            bodies[i] = (b[0], key, b[2], b[3], b[4], None)
     if T and T.get("mesh") and T["mesh"]["faces"]:
         surfaces.append(("SN3D_TALUY", sub(T["mesh"]["pts"]), [tuple(f) for f in T["mesh"]["faces"]]))
     from shapely.geometry import Point
@@ -450,7 +462,14 @@ def model_3d(zones, tin_tris, T, X, cfg, origin):
     # hình tách: đắp và đào không chồng nhau trên mặt bằng nên nhấc cùng một mức
     lifts = {"SN3D_NEN": 0.0, "SN3D_DAP": lift, "SN3D_DAO": lift, "SN3D_BOC": 2 * lift}
     return dict(bodies=bodies, surfaces=surfaces, piles=piles, zbase=zbase, box=(x0, y0, x1, y1, zt), W=W,
-                dx=(x1 - x0) + 0.45 * W, lift=lift, lifts=lifts)
+                dx=(x1 - x0) + 0.45 * W, lift=lift, lifts=lifts, bandcol=bandcol, scale=scale)
+
+
+def band_rgb(lay, band):
+    """Cấp màu 0..4 từ nhạt đến đậm."""
+    lo, hi = {"SN3D_DAP": ((204, 234, 204), (13, 102, 41)), "SN3D_DAO": ((250, 209, 204), (140, 13, 26))}[lay]
+    t = (band + 0.5) / 5
+    return tuple(int(round(a + (b - a) * t)) for a, b in zip(lo, hi))
 
 
 def temp_layer(lay, key):
@@ -485,16 +504,19 @@ def write_dxf3d(path, M, zones, X, origin, shift=(0.0, 0.0), for_acad=False):
     msp = doc.modelspace()
     sx, sy = shift
 
-    def add_mesh(layer, pts, faces, dx=0.0, dz=0.0):
+    def add_mesh(layer, pts, faces, dx=0.0, dz=0.0, rgb=None):
         m = msp.add_mesh(dxfattribs={"layer": layer})
+        if rgb:
+            m.rgb = rgb
         with m.edit_data() as d:
             d.vertices = [(x + sx + dx, y + sy, z + dz) for x, y, z in pts]
             d.faces = [list(f) for f in faces]
 
     for lay, key, nm, p, q, v in M["bodies"]:
-        add_mesh(temp_layer(lay, key) if for_acad else lay, p, q)
+        rgb = M["bandcol"].get((lay, key))
+        add_mesh(temp_layer(lay, key) if for_acad else lay, p, q, rgb=rgb)
         if not for_acad and lay in M["lifts"]:
-            add_mesh(lay + "_TACH", p, q, dx=M["dx"], dz=M["lifts"][lay])
+            add_mesh(lay + "_TACH", p, q, dx=M["dx"], dz=M["lifts"][lay], rgb=rgb)
     for lay, p, q in M["surfaces"]:
         add_mesh(lay, p, q)
     if not for_acad:   # không có AutoCAD: cọc là lăng trụ 24 cạnh
@@ -528,6 +550,11 @@ def write_dxf3d(path, M, zones, X, origin, shift=(0.0, 0.0), for_acad=False):
             txt = names[k] + ("" if vals[k] is None else f"  {vals[k]:,.2f} m³")
             label(txt, x0 + dx - 0.04 * W, y0 - 0.04 * W, min(zz) + M["lifts"][k] + up * h, LAYERS_3D[k][0])
     label("HIỆN TRẠNG VÀ THIẾT KẾ", x0 - 0.04 * W, y0 - 0.04 * W, zt + 2 * h)
+    sc = M.get("scale", {})
+    if sc:
+        label("Màu nhạt chỗ mỏng, đậm dần chỗ dày: đắp " + " | ".join(f"{sc['SN3D_DAP'] * i / 5:.2f}" for i in range(6)) + " m"
+              + (", đào " + " | ".join(f"{sc['SN3D_DAO'] * i / 5:.2f}" for i in range(6)) + " m" if "SN3D_DAO" in sc else ""),
+              x0 - 0.04 * W, y0 - 0.04 * W, zt + 3.6 * h)
     label("TÁCH KHỐI", x0 + dx - 0.04 * W, y0 - 0.04 * W, zt + 2 * lift + 2 * h)
     doc.saveas(path)
     return sorted(tmp)

diff --git a/sannen.py b/sannen.py
@@ -1747,6 +1747,7 @@ def recalc_excel(path):
 LAYERS = {
     "SN-RanhGioi": 1, "SN-Luoi": 8, "SN-DiemDo": 9, "SN-Nut": 7, "SN-DuongKhong": 6,
     "SN-Dap": 3, "SN-Dao": 1, "SN-O": 7, "SN-Bang": 7, "SN-Taluy": 30, "SN-HoMong": 5,
+    "SN-TIN-TuNhien": 92, "SN-TIN-ThietKe": 10, "SN-DiemTK": 10,
 }
 
 
@@ -1755,7 +1756,7 @@ def text_rot(a):
     return (a + 45) % 90 - 45
 
 
-def write_dxf(path, zones, pts, cfg, K, bal, T=None, X=None):
+def write_dxf(path, zones, pts, cfg, K, bal, T=None, X=None, tin=None):
     doc = ezdxf.new("R2013", setup=False)
     doc.header["$INSUNITS"] = 6
     doc.styles.add("SN", font="arial.ttf")
@@ -1783,6 +1784,30 @@ def write_dxf(path, zones, pts, cfg, K, bal, T=None, X=None):
     for x, y, z in pts:
         msp.add_point((x, y, z), dxfattribs={"layer": "SN-DiemDo"})
         msp.add_text(f"{z:.3f}", dxfattribs={"layer": "SN-DiemDo", "style": "SN", "height": th * 0.55, "insert": (x, y)})
+    # mạng tam giác để kiểm tra bằng mắt: TIN tự nhiên và TIN thiết kế (nếu có)
+    U = unary_union([z["poly"] for z in zones]).buffer(2 * cfg["step"])
+    def tin_lines(V, Z, layer):
+        seen = set()
+        for v, zz in zip(V, Z):
+            if not U.intersects(Polygon(v)):
+                continue
+            for i in range(3):
+                a, b = (tuple(np.round(v[i], 3)), float(zz[i])), (tuple(np.round(v[(i + 1) % 3], 3)), float(zz[(i + 1) % 3]))
+                k = (a[0], b[0]) if a[0] < b[0] else (b[0], a[0])
+                if k not in seen:
+                    seen.add(k)
+                    msp.add_line((*a[0], a[1]), (*b[0], b[1]), dxfattribs={"layer": layer})
+    if tin is not None:
+        tin_lines(*tin.triangles(), "SN-TIN-TuNhien")
+    done = set()
+    for z in zones:
+        d = z["design"]
+        key = tuple(np.round(np.asarray(d.kw["pts"], float).ravel(), 3)) if d.kind == "tin" else None
+        if key and key not in done:
+            done.add(key)
+            tin_lines(*d.tin.triangles(), "SN-TIN-ThietKe")
+            for x, y, zz in d.kw["pts"]:
+                msp.add_text(f"{zz:.3f}", dxfattribs={"layer": "SN-DiemTK", "style": "SN", "height": th * 0.55, "insert": (x, y)})
 
     def hatch(p, layer, color):
         h = msp.add_hatch(color=color, dxfattribs={"layer": layer})
@@ -2050,7 +2075,7 @@ def run(inputs, cfg, out=None, no_dwg=False):
     log("4. Xuất kết quả")
     write_excel(out / "SanNen_KhoiLuong.xlsx", zones, cfg, bal, Q, cfg["k"], T, X)
     dxf = out / "SanNen_MatBang.dxf"
-    write_dxf(dxf, zones, pts, cfg, cfg["k"], bal, T, X)
+    write_dxf(dxf, zones, pts, cfg, cfg["k"], bal, T, X, tin)
     write_pdf(out / "SanNen_BaoCao.pdf", zones, cfg, cfg["k"], bal, Q, T, X)
     if not no_dwg:
         d = dxf_to_dwg(dxf)
